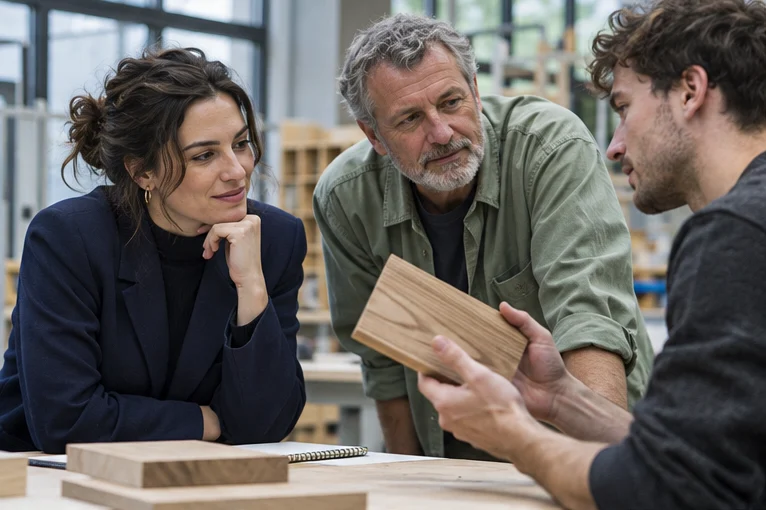
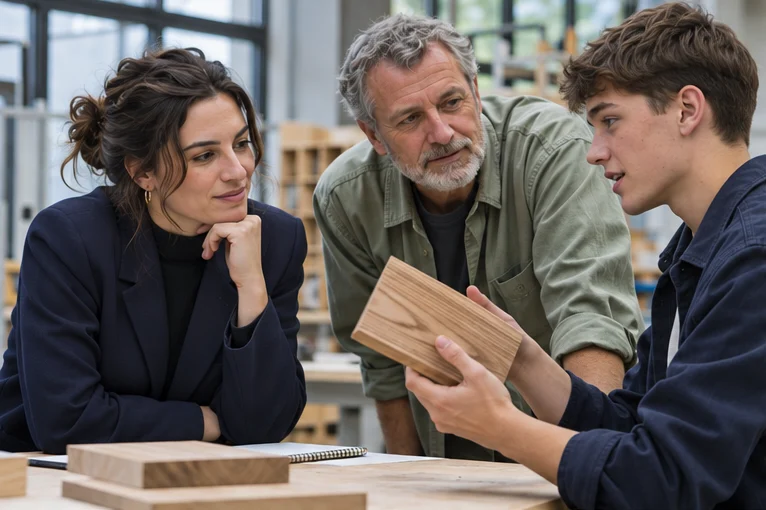
Zobrazit středoškoláky při odborné výuce v Ateliéru praxí

diff --git a/atelier-praxe-upv/app.js b/atelier-praxe-upv/app.js
@@ -83,9 +83,9 @@
   function statusName(s){return PRACTICE.statusLabel(s)}
   const catalog=[
     ['ivp','Praxe IVP','Studium','Chystám se na praxi','Škola, termíny, záznamy a společný rozbor s učitelem.','phase-2.webp?v=atelier-foto1'],
-    ['nacvik','Praxe nanečisto','Trénink','Chci si to zkusit před hodinou','Vyberte, jak zareagujete ve třídě. Podívejte se, co vaše rozhodnutí změní.','phase-4.webp?v=atelier-foto1'],
+    ['nacvik','Praxe nanečisto','Trénink','Chci si to zkusit před hodinou','Vyberte, jak zareagujete ve třídě. Podívejte se, co vaše rozhodnutí změní.','phase-4.webp?v=zaci-ss1'],
     ['adaptio','Adaptio','Začátek v profesi','Jdu na praxi nebo začínám učit','Připravte si rozhovor s cvičným učitelem nebo otevřete Adaptio pro začátek v zaměstnání.','phase-6.webp?v=atelier-foto1'],
-    ['ss','Praxe SŠ','Odborný výcvik','Propojuji školu a pracoviště','Sledujte jeden úkol očima žáka, učitele a instruktora na pracovišti.','phase-5.webp?v=atelier-foto1'],
+    ['ss','Praxe SŠ','Odborný výcvik','Propojuji školu a pracoviště','Sledujte jeden úkol očima žáka, učitele a instruktora na pracovišti.','phase-5.webp?v=zaci-ss1'],
     ['kurzy','Kurzy ČZU','Další vzdělávání','Chci se dál vzdělávat','Projděte si kurz pro instruktory praktického vyučování a vyberte si vlastní cíl.','phase-1.webp?v=atelier-foto1']
   ];
   const toolPages=['nacvik','adaptio','ss','kurzy'];
@@ -142,7 +142,7 @@
   function studentHome(){
     const p=person(),m=mod(p.stage),pending=current().records.find(r=>['draft','returned'].includes(r.status)),target=pending?mod(pending.moduleId):m;
     return '<section class="hero"><div class="hero-copy"><small>'+e(p.name)+' · Učitelství praktického vyučování</small><h1>'+({group:'Co dnes uvidíte ve výuce?',micro:'Jak povedete první výstup?',continuous:'Co si žáci odnesou z hodiny?'}[p.stage])+'</h1><p>'+({group:'Při náslechu vyberte jeden okamžik. Zapište, co udělal učitel a jak na to žáci reagovali.',micro:'Naplánujte si krátkou instruktáž a určete, podle čeho poznáte, že jí skupina rozumí.',continuous:'Spojte přípravu, vlastní výuku a rozbor s cvičným učitelem do jednoho záznamu.'}[p.stage])+'</p>'+link('praxe/'+target.id+(pending?'/upravit/'+pending.id:''),pending?'Pokračovat v záznamu →':'Otevřít moji praxi →','primary')+'</div><figure class="hero-photo"><img src="praxe.webp?v=atelier-foto1" alt="Student učitelství a mentorka poslouchají, jak žák vysvětluje sestavení dřevěného spoje."><figcaption>'+e(target.title)+'</figcaption></figure></section>'+
-    practiceLinks()+'<a class="kit-link" href="#druhy-pokus"><strong>Můj druhý pokus →</strong><span>Otevřete svůj poslední záměr a při další návštěvě školy zaznamenejte, co se změnilo.</span></a><div class="section-head"><div><small class="eyebrow">Studijní cesta</small><h2>Od náslechu k vlastní výuce</h2></div></div><div class="grid">'+modules.map((m,i)=>'<article class="tile phase-tile"><img class="phase-photo" src="phase-'+(i+1)+'.webp?v=atelier-foto1" alt="" loading="lazy"><span class="tag">'+[2,3,4,5,6,6][i]+'. semestr · Praxe '+String(i+1).padStart(2,'0')+'</span><h3>'+e(m.title)+'</h3><p>'+e(m.short)+'</p>'+link('praxe/'+m.id,'Otevřít praxi →')+'</article>').join('')+'</div>';
+    practiceLinks()+'<a class="kit-link" href="#druhy-pokus"><strong>Můj druhý pokus →</strong><span>Otevřete svůj poslední záměr a při další návštěvě školy zaznamenejte, co se změnilo.</span></a><div class="section-head"><div><small class="eyebrow">Studijní cesta</small><h2>Od náslechu k vlastní výuce</h2></div></div><div class="grid">'+modules.map((m,i)=>'<article class="tile phase-tile"><img class="phase-photo" src="phase-'+(i+1)+'.webp?v=zaci-ss1" alt="" loading="lazy"><span class="tag">'+[2,3,4,5,6,6][i]+'. semestr · Praxe '+String(i+1).padStart(2,'0')+'</span><h3>'+e(m.title)+'</h3><p>'+e(m.short)+'</p>'+link('praxe/'+m.id,'Otevřít praxi →')+'</article>').join('')+'</div>';
   }
   function modulePage(m){
     const records=current().records.filter(r=>r.moduleId===m.id);

diff --git a/atelier-praxe-upv/atelier-tools.js b/atelier-praxe-upv/atelier-tools.js
@@ -3,13 +3,13 @@ window.ATools = (() => {
   const escape = value => String(value ?? '').replace(/[&<>"']/g, c => ({'&':'&amp;','<':'&lt;','>':'&gt;','"':'&quot;',"'":'&#39;'}[c]));
   const scenarios = {
     nacvik: [
-      {title:'Jak začít instruktáž?',phase:'Před výukou',photo:'phase-4.webp?v=atelier-foto1',moduleId:'micro',code:'2.1',
+      {title:'Jak začít instruktáž?',phase:'Před výukou',photo:'phase-4.webp?v=zaci-ss1',moduleId:'micro',code:'2.1',
         scene:'Máte sedm minut na ukázku měření posuvným měřítkem. Na stole leží dva téměř stejné vzorky. Co řeknete skupině jako první?',
         choices:[
           ['„Dnes si ukážeme posuvné měřítko.“','Skupina zná téma. Zatím chybí představa, co má každý na konci samostatně udělat.','Řeknu, co mají žáci udělat a podle čeho poznají výsledek.'],
           ['„Na konci každý změří oba vzorky a vysvětlí rozdíl.“','Žáci dostali úkol i způsob, jak poznat výsledek. Krátká otázka teď odhalí, kdo už měřidlo používal.','Před ukázkou zjistím, jak by žáci začali měřit.'],
           ['„Kdo z vás už někdy měřil takový díl?“','Zjistíte výchozí zkušenost části skupiny. Jak zapojíte i ty, kteří se nepřihlásí?','Nechám nejprve každého navrhnout první krok ve dvojici.']]},
-      {title:'Dvě dvojice se zasekly',phase:'Během výuky',photo:'phase-5.webp?v=atelier-foto1',moduleId:'continuous',code:'2.4',
+      {title:'Dvě dvojice se zasekly',phase:'Během výuky',photo:'phase-5.webp?v=zaci-ss1',moduleId:'continuous',code:'2.4',
         scene:'Po vaší ukázce dvě dvojice čekají. Ostatní už zapisují výsledek. Jedna žákyně říká: „Nevíme, co odečíst.“ Jak zareagujete?',
         choices:[
           ['Zeptám se, které místo na stupnici je mate.','Konkrétní odpověď ukáže, zda je potíž v odečtu, nebo už v přiložení měřidla. Můžete nabídnout krátkou oporu.','Ověřím porozumění na druhém vzorku bez nápovědy.'],
@@ -29,7 +29,7 @@ window.ATools = (() => {
           ['Kde a kdy se potkáme','Zapište si jedno místo setkání a čas. Předejdete hledání učebny během předávání skupiny.','Před návštěvou si potvrdím místo, čas a způsob spojení.'],
           ['Čeho si mám při náslechu všímat','Společná otázka vám pomůže soustředit se na učení konkrétní skupiny.','Domluvím si jednu pozorovací otázku a čas na rozbor.'],
           ['Jaká pravidla platí na pracovišti','Požádejte o seznámení s místním režimem a vybavením před příchodem žáků.','Před hodinou projdu s učitelem pracoviště a jeho pravidla.']]},
-      {title:'Připravuji první vlastní hodinu',phase:'Před výstupem',photo:'phase-4.webp?v=atelier-foto1',moduleId:'micro',code:'5.1',
+      {title:'Připravuji první vlastní hodinu',phase:'Před výstupem',photo:'phase-4.webp?v=zaci-ss1',moduleId:'micro',code:'5.1',
         scene:'Máte připravenou krátkou instruktáž. Kterou část chcete s mentorem projít ještě před výukou?',
         choices:[
           ['Co už skupina umí','Vyžádejte si příklad předchozí práce. Lépe zvolíte náročnost prvního samostatného úkolu.','Zjistím, na který zvládnutý postup mohu navázat.'],

diff --git a/atelier-praxe-upv/index.html b/atelier-praxe-upv/index.html
@@ -10,7 +10,7 @@
   <link rel="stylesheet" href="style.css">
   <link rel="stylesheet" href="planner.css">
   <link rel="stylesheet" href="shell.css">
-  <link rel="stylesheet" href="human.css?v=atelier-foto1">
+  <link rel="stylesheet" href="human.css?v=zaci-ss1">
   <link rel="stylesheet" href="workspace.css">
   <link rel="stylesheet" href="reflection-flow.css">
   <link rel="stylesheet" href="pracovna.css?v=kombinovane3">
@@ -21,7 +21,7 @@
   <script src="records.js?v=kombinovane3" defer></script>
   <script src="planner.js?v=kombinovane3" defer></script>
   <script src="preparation.js?v=kombinovane3" defer></script>
-  <script src="atelier-tools.js?v=atelier-foto1" defer></script>
+  <script src="atelier-tools.js?v=zaci-ss1" defer></script>
   <script src="workplace.js?v=kombinovane3" defer></script>
   <script src="coordinator.js?v=koordinace" defer></script>
   <script src="official-docs.js?v=rok2627" defer></script>
@@ -32,7 +32,7 @@
   <link rel="stylesheet" href="dokumenty.css?v=3">
   <script src="studijni-dokumenty.js?v=atelier-foto1" defer></script>
   <script src="druhy-pokus.js?v=3" defer></script>
-  <script src="app.js?v=atelier-foto1" defer></script>
+  <script src="app.js?v=zaci-ss1" defer></script>
 </head>
 <body><a class="skip" href="#content">Přejít k obsahu</a>
   <div id="shell"></div>

diff --git a/atelier-praxe-upv/human.css b/atelier-praxe-upv/human.css
@@ -120,7 +120,7 @@
 @media screen{
 .practice-links{display:flex;flex-wrap:wrap;gap:8px;margin:20px 0}.tool-source{margin-top:2rem}.student-select{max-width:300px;margin-block:12px}
 #tool-space[data-page="ss"]>.subhead,#tool-space[data-page="kurzy"]>.subhead{min-height:190px;align-content:center;position:relative;isolation:isolate;padding:24px 34% 24px 24px;background:#e0f4eb;border-radius:8px;overflow:hidden}
-#tool-space[data-page="ss"]>.subhead:after,#tool-space[data-page="kurzy"]>.subhead:after{content:"";position:absolute;inset:0 0 0 68%;background:url(phase-5.webp?v=atelier-foto1) center/cover}
+#tool-space[data-page="ss"]>.subhead:after,#tool-space[data-page="kurzy"]>.subhead:after{content:"";position:absolute;inset:0 0 0 68%;background:url(phase-5.webp?v=zaci-ss1) center/cover}
 #tool-space[data-page="kurzy"]>.subhead:after{background-image:url(phase-1.webp?v=atelier-foto1)}
 @media(max-width:600px){#tool-space[data-page]>.subhead{padding:16px 30% 16px 14px}#tool-space[data-page]>.subhead h1{font-size:2rem}#tool-space[data-page]>.subhead:after{left:74%}}
 }
